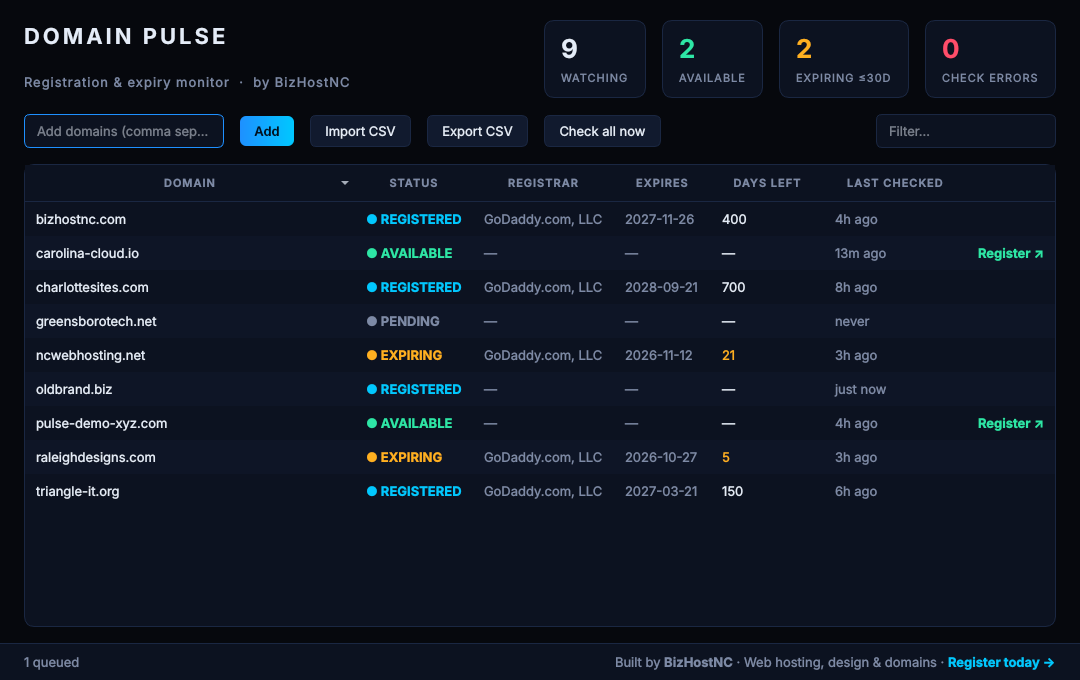
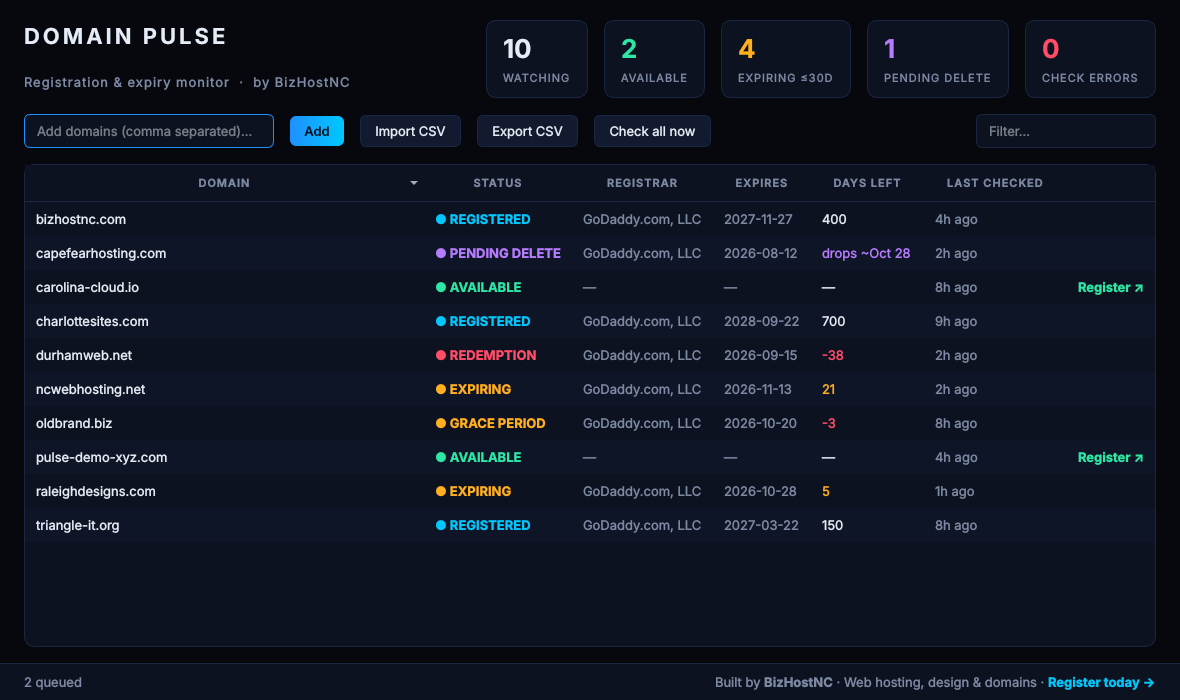
Track grace period, redemption and pending delete
Reads the registry status flags from RDAP to follow expired domains through
deletion, alerts at each stage, estimates the drop date for pending delete
domains and checks them every 2 hours. Adds lifecycle and drop date columns
to the CSV export and migrates existing databases.

diff --git a/domain_pulse/monitor.py b/domain_pulse/monitor.py
@@ -17,9 +17,30 @@ from .store import Domain, utcnow
 TICK_SECONDS = 4              # minimum gap between any two lookups
 DEFAULT_INTERVAL = timedelta(hours=24)
 NEAR_EXPIRY_INTERVAL = timedelta(hours=6)
+PENDING_DELETE_INTERVAL = timedelta(hours=2)
+PENDING_DELETE_DAYS = 5         # typical gap between pending delete and the domain dropping
 ERROR_RETRY = timedelta(hours=1)
 NEAR_EXPIRY_DAYS = 30
 EXPIRY_THRESHOLDS = (30, 7, 1)  # days before expiry that trigger an alert
+
+
+# Lifecycle phases after expiry, from the registry's status flags.
+GRACE = "grace"
+REDEMPTION = "redemption"
+PENDING_DELETE = "pending_delete"
+PHASE_LABELS = {GRACE: "grace period", REDEMPTION: "redemption", PENDING_DELETE: "pending delete"}
+
+
+def lifecycle_phase(flags: list[str]) -> str:
+    # Some registries (e.g. Verisign) also set "pending delete" during redemption,
+    # so redemption wins when both are present.
+    if "redemption period" in flags or "pending restore" in flags:
+        return REDEMPTION
+    if "pending delete" in flags:
+        return PENDING_DELETE
+    if "auto renew period" in flags:
+        return GRACE
+    return ""
 
 
 @dataclass
@@ -33,6 +54,10 @@ class Alert:
 def next_interval(d: Domain, now: datetime) -> timedelta:
     if d.error:
         return ERROR_RETRY
+    if d.phase == PENDING_DELETE:
+        return PENDING_DELETE_INTERVAL
+    if d.phase:
+        return NEAR_EXPIRY_INTERVAL
     days = d.days_left(now)
     if d.status == REGISTERED and days is not None and days <= NEAR_EXPIRY_DAYS:
         return NEAR_EXPIRY_INTERVAL
@@ -61,16 +86,45 @@ def apply_result(d: Domain, result: LookupResult, now: datetime | None = None) -
                                     "Register it now before someone else does."))
                 d.alerted_available = True
             d.alerted_threshold = None
+            d.phase, d.drop_date, d.alerted_phase = "", None, ""
         else:
             d.alerted_available = False
             if old_expires and d.expires and d.expires > old_expires:
                 d.alerted_threshold = None  # renewed: start the countdown alerts over
-            alerts.extend(_expiry_alerts(d, now))
+            alerts.extend(_phase_alerts(d, result, now))
+            if not d.phase:
+                alerts.extend(_expiry_alerts(d, now))
 
     # Small jitter keeps checks spread out instead of bunching up after a bulk import.
     jitter = timedelta(minutes=random.uniform(0, 20)) if not d.error else timedelta()
     d.next_check = now + next_interval(d, now) + jitter
     return alerts
+
+
+def _phase_alerts(d: Domain, result: LookupResult, now: datetime) -> list[Alert]:
+    old_phase = d.phase
+    d.phase = lifecycle_phase(result.flags)
+    if d.phase == PENDING_DELETE:
+        if result.deletion:
+            d.drop_date = result.deletion
+        elif old_phase != PENDING_DELETE or not d.drop_date:
+            d.drop_date = now + timedelta(days=PENDING_DELETE_DAYS)
+    else:
+        d.drop_date = result.deletion if d.phase else None
+    if not d.phase:
+        d.alerted_phase = ""
+        return []
+    if d.alerted_phase == d.phase:
+        return []
+    d.alerted_phase = d.phase
+    if d.phase == PENDING_DELETE:
+        return [Alert(d.name, "pending_delete", f"{d.name} is pending delete",
+                      f"Expected to drop around {d.drop_date:%b %d, %Y}. Be ready to register it.")]
+    if d.phase == REDEMPTION:
+        return [Alert(d.name, "redemption", f"{d.name} is in redemption",
+                      "Expired and held by the registry. The owner can still restore it for a fee.")]
+    return [Alert(d.name, "grace", f"{d.name} is in its grace period",
+                  "Expired, but the owner can still renew it normally.")]
 
 
 def _expiry_alerts(d: Domain, now: datetime) -> list[Alert]:

diff --git a/tests/test_core.py b/tests/test_core.py
@@ -147,3 +147,72 @@ def test_error_keeps_status_and_retries_soon():
     monitor.apply_result(d, LookupResult("x.com", "unknown", error="timeout"), NOW)
     assert d.status == REGISTERED and d.error == "timeout"
     assert d.next_check - NOW == monitor.ERROR_RETRY
+
+
+def test_parse_status_flags_and_deletion_event():
+    data = {**RDAP_SAMPLE, "status": ["Pending Delete", "client hold"],
+            "events": RDAP_SAMPLE["events"] + [{"eventAction": "deletion", "eventDate": "2026-10-30T18:00:00Z"}]}
+    r = parse_domain("example.com", data)
+    assert r.flags == ["pending delete", "client hold"]
+    assert r.deletion == datetime(2026, 10, 30, 18, tzinfo=timezone.utc)
+
+
+def test_lifecycle_phase():
+    assert monitor.lifecycle_phase(["active"]) == ""
+    assert monitor.lifecycle_phase(["auto renew period"]) == monitor.GRACE
+    assert monitor.lifecycle_phase(["pending delete", "redemption period"]) == monitor.REDEMPTION
+    assert monitor.lifecycle_phase(["pending delete"]) == monitor.PENDING_DELETE
+
+
+def test_deletion_lifecycle_alerts_and_drop():
+    d = Domain("x.com")
+    expired = NOW - timedelta(days=40)
+    reg = lambda flags, deletion=None: LookupResult("x.com", REGISTERED, expires=expired, flags=flags, deletion=deletion)
+
+    alerts = monitor.apply_result(d, reg(["redemption period", "pending delete"]), NOW)
+    assert [a.kind for a in alerts] == ["redemption"]           # no "expired N days" alert on top
+    assert monitor.apply_result(d, reg(["redemption period"]), NOW) == []
+
+    alerts = monitor.apply_result(d, reg(["pending delete"]), NOW)
+    assert [a.kind for a in alerts] == ["pending_delete"]
+    assert d.drop_date == NOW + timedelta(days=monitor.PENDING_DELETE_DAYS)
+    assert d.next_check - NOW < timedelta(hours=3)               # watched closely
+
+    later = NOW + timedelta(hours=2)
+    assert monitor.apply_result(d, reg(["pending delete"]), later) == []
+    assert d.drop_date == NOW + timedelta(days=monitor.PENDING_DELETE_DAYS)  # estimate kept
+
+    published = NOW + timedelta(days=3)
+    monitor.apply_result(d, reg(["pending delete"], deletion=published), later)
+    assert d.drop_date == published                               # registry date wins
+
+    alerts = monitor.apply_result(d, LookupResult("x.com", AVAILABLE), later)
+    assert [a.kind for a in alerts] == ["available"]
+    assert d.phase == "" and d.drop_date is None
+
+
+def test_store_migrates_old_database(tmp_path):
+    import sqlite3
+    path = tmp_path / "old.sqlite"
+    conn = sqlite3.connect(path)
+    conn.execute("""CREATE TABLE domains (name TEXT PRIMARY KEY, status TEXT NOT NULL DEFAULT 'pending',
+        registrar TEXT NOT NULL DEFAULT '', expires TEXT, last_checked TEXT, next_check TEXT NOT NULL,
+        error TEXT NOT NULL DEFAULT '', alerted_available INTEGER NOT NULL DEFAULT 0,
+        alerted_threshold INTEGER, added TEXT NOT NULL)""")
+    conn.execute("INSERT INTO domains (name, next_check, added) VALUES ('a.com', '2026-01-01', '2026-01-01')")
+    conn.commit()
+    conn.close()
+    s = Store(path)
+    d = s.get("a.com")
+    assert d.phase == ""
+    d.phase, d.drop_date = monitor.PENDING_DELETE, NOW
+    s.save(d)
+    assert Store(path).get("a.com").drop_date == NOW
+
+
+def test_csv_export_lifecycle(tmp_path):
+    out = tmp_path / "out.csv"
+    csv_io.write_domains(out, [Domain("x.com", status=REGISTERED, phase=monitor.PENDING_DELETE, drop_date=NOW)])
+    header, row = out.read_text().splitlines()
+    assert header.split(",")[2] == "lifecycle"
+    assert "pending delete" in row and "2026-10-22" in row

diff --git a/domain_pulse/store.py b/domain_pulse/store.py
@@ -18,9 +18,19 @@ CREATE TABLE IF NOT EXISTS domains (
     error TEXT NOT NULL DEFAULT '',
     alerted_available INTEGER NOT NULL DEFAULT 0,
     alerted_threshold INTEGER,
-    added TEXT NOT NULL
+    added TEXT NOT NULL,
+    phase TEXT NOT NULL DEFAULT '',
+    drop_date TEXT,
+    alerted_phase TEXT NOT NULL DEFAULT ''
 );
 """
+
+# Columns added after the first alpha; older databases get them on startup.
+MIGRATIONS = {
+    "phase": "ALTER TABLE domains ADD COLUMN phase TEXT NOT NULL DEFAULT ''",
+    "drop_date": "ALTER TABLE domains ADD COLUMN drop_date TEXT",
+    "alerted_phase": "ALTER TABLE domains ADD COLUMN alerted_phase TEXT NOT NULL DEFAULT ''",
+}
 
 
 def utcnow() -> datetime:
@@ -42,6 +52,9 @@ class Domain:
     error: str = ""
     alerted_available: bool = False
     alerted_threshold: int | None = None
+    phase: str = ""  # "", "grace", "redemption" or "pending_delete"
+    drop_date: datetime | None = None
+    alerted_phase: str = ""
 
     def days_left(self, now: datetime | None = None) -> int | None:
         if not self.expires:
@@ -54,6 +67,11 @@ class Store:
         self.conn = sqlite3.connect(str(path), check_same_thread=False)
         self.conn.row_factory = sqlite3.Row
         self.conn.executescript(SCHEMA)
+        existing = {r["name"] for r in self.conn.execute("PRAGMA table_info(domains)")}
+        for column, sql in MIGRATIONS.items():
+            if column not in existing:
+                self.conn.execute(sql)
+        self.conn.commit()
 
     def add(self, names: list[str]) -> int:
         now = utcnow().isoformat()
@@ -98,13 +116,15 @@ class Store:
     def save(self, d: Domain) -> None:
         self.conn.execute(
             """UPDATE domains SET status=?, registrar=?, expires=?, last_checked=?, next_check=?,
-               error=?, alerted_available=?, alerted_threshold=? WHERE name=?""",
+               error=?, alerted_available=?, alerted_threshold=?, phase=?, drop_date=?, alerted_phase=?
+               WHERE name=?""",
             (
                 d.status, d.registrar,
                 d.expires.isoformat() if d.expires else None,
                 d.last_checked.isoformat() if d.last_checked else None,
                 (d.next_check or utcnow()).isoformat(),
-                d.error, int(d.alerted_available), d.alerted_threshold, d.name,
+                d.error, int(d.alerted_available), d.alerted_threshold,
+                d.phase, d.drop_date.isoformat() if d.drop_date else None, d.alerted_phase, d.name,
             ),
         )
         self.conn.commit()
@@ -117,4 +137,5 @@ class Store:
             next_check=_dt(r["next_check"]), error=r["error"],
             alerted_available=bool(r["alerted_available"]),
             alerted_threshold=r["alerted_threshold"],
+            phase=r["phase"], drop_date=_dt(r["drop_date"]), alerted_phase=r["alerted_phase"],
         )

diff --git a/domain_pulse/app.py b/domain_pulse/app.py
@@ -22,6 +22,8 @@ COL_ACTION = 6
 
 
 def display_status(d: Domain, now: datetime) -> str:
+    if d.status == REGISTERED and d.phase:
+        return monitor.PHASE_LABELS[d.phase]
     if d.status == REGISTERED:
         days = d.days_left(now)
         if days is not None and days < 0:
@@ -84,6 +86,8 @@ class DomainModel(QAbstractTableModel):
             if col == 3:
                 return d.expires.strftime("%Y-%m-%d") if d.expires else "—"
             if col == 4:
+                if d.phase == monitor.PENDING_DELETE and d.drop_date:
+                    return f"drops ~{d.drop_date:%b %d}"
                 return "—" if days is None else str(days)
             if col == 5:
                 return ago(d.last_checked, now)
@@ -96,6 +100,8 @@ class DomainModel(QAbstractTableModel):
         if role == Qt.ForegroundRole:
             if col == 1:
                 return QColor(theme.STATUS_COLORS.get(status, theme.MUTED))
+            if col == 4 and d.phase == monitor.PENDING_DELETE:
+                return QColor(theme.DROP)
             if col == 4 and days is not None and days <= monitor.NEAR_EXPIRY_DAYS:
                 return QColor(theme.WARN if days >= 0 else theme.BAD)
             if col == COL_ACTION:
@@ -107,6 +113,8 @@ class DomainModel(QAbstractTableModel):
             f.setBold(True)
             return f
         if role == Qt.ToolTipRole:
+            if d.phase == monitor.PENDING_DELETE and d.drop_date:
+                return f"Pending delete. Expected to drop around {d.drop_date:%b %d, %Y}."
             if d.error:
                 return f"Last check failed: {d.error}"
             if col == COL_ACTION and d.status == AVAILABLE:
@@ -194,6 +202,7 @@ class MainWindow(QMainWindow):
             "total": StatCard("Watching", theme.TEXT),
             "available": StatCard("Available", theme.GOOD),
             "expiring": StatCard("Expiring ≤30d", theme.WARN),
+            "dropping": StatCard("Pending delete", theme.DROP),
             "error": StatCard("Check errors", theme.BAD),
         }
         for c in self.cards.values():
@@ -358,7 +367,9 @@ class MainWindow(QMainWindow):
         statuses = [display_status(d, now) for d in rows]
         self.cards["total"].value.setText(str(len(rows)))
         self.cards["available"].value.setText(str(statuses.count("available")))
-        self.cards["expiring"].value.setText(str(statuses.count("expiring") + statuses.count("expired")))
+        expiring = ("expiring", "expired", "grace period", "redemption")
+        self.cards["expiring"].value.setText(str(sum(statuses.count(s) for s in expiring)))
+        self.cards["dropping"].value.setText(str(statuses.count("pending delete")))
         self.cards["error"].value.setText(str(sum(1 for d in rows if d.error)))
         self.update_status()
 

diff --git a/domain_pulse/rdap.py b/domain_pulse/rdap.py
@@ -8,7 +8,7 @@ from __future__ import annotations
 
 import json
 import time
-from dataclasses import dataclass
+from dataclasses import dataclass, field
 from datetime import datetime
 from pathlib import Path
 
@@ -31,6 +31,8 @@ class LookupResult:
     registrar: str = ""
     expires: datetime | None = None
     error: str = ""
+    flags: list[str] = field(default_factory=list)  # registry status flags, e.g. "redemption period"
+    deletion: datetime | None = None  # scheduled deletion date, when the registry publishes one
 
 
 class RdapClient:
@@ -103,11 +105,18 @@ class RdapClient:
 
 
 def parse_domain(domain: str, data: dict) -> LookupResult:
-    expires = None
+    expires = deletion = None
     for event in data.get("events", []):
-        if event.get("eventAction") == "expiration" and event.get("eventDate"):
-            expires = parse_date(event["eventDate"])
-    return LookupResult(domain, REGISTERED, registrar=_registrar(data), expires=expires)
+        action, date = event.get("eventAction"), event.get("eventDate")
+        if not date:
+            continue
+        if action == "expiration":
+            expires = parse_date(date)
+        elif action == "deletion":
+            deletion = parse_date(date)
+    flags = [str(f).strip().lower() for f in data.get("status", [])]
+    return LookupResult(domain, REGISTERED, registrar=_registrar(data), expires=expires,
+                        flags=flags, deletion=deletion)
 
 
 def _registrar(data: dict) -> str:

diff --git a/domain_pulse/csv_io.py b/domain_pulse/csv_io.py
@@ -5,10 +5,12 @@ from __future__ import annotations
 import csv
 from pathlib import Path
 
+from .monitor import PHASE_LABELS
 from .rdap import is_valid, normalize
 from .store import Domain, utcnow
 
-EXPORT_FIELDS = ["domain", "status", "registrar", "expires", "days_left", "last_checked", "error"]
+EXPORT_FIELDS = ["domain", "status", "lifecycle", "registrar", "expires", "days_left", "drop_date",
+                 "last_checked", "error"]
 DOMAIN_HEADERS = {"domain", "domains", "domain name", "name", "url", "website"}
 
 
@@ -58,9 +60,10 @@ def write_domains(path: Path | str, domains: list[Domain]) -> None:
         for d in domains:
             days = d.days_left(now)
             w.writerow([
-                d.name, d.status, d.registrar,
+                d.name, d.status, PHASE_LABELS.get(d.phase, ""), d.registrar,
                 d.expires.date().isoformat() if d.expires else "",
                 "" if days is None else days,
+                d.drop_date.date().isoformat() if d.drop_date else "",
                 d.last_checked.strftime("%Y-%m-%d %H:%M UTC") if d.last_checked else "",
                 d.error,
             ])

diff --git a/domain_pulse/theme.py b/domain_pulse/theme.py
@@ -14,9 +14,11 @@ ACCENT_2 = "#00c8ff"
 GOOD = "#2ee6a6"
 WARN = "#ffb020"
 BAD = "#ff4d6a"
+DROP = "#b67cff"
 
 STATUS_COLORS = {"available": GOOD, "expiring": WARN, "expired": BAD, "error": BAD,
-                 "registered": ACCENT_2, "pending": MUTED, "unknown": MUTED}
+                 "registered": ACCENT_2, "pending": MUTED, "unknown": MUTED,
+                 "grace period": WARN, "redemption": BAD, "pending delete": DROP}
 
 STYLESHEET = f"""
 * {{ font-family: "Segoe UI", "Inter", "Noto Sans", sans-serif; font-size: 13px; color: {TEXT}; }}

diff --git a/domain_pulse/__init__.py b/domain_pulse/__init__.py
@@ -1,6 +1,6 @@
 """Domain Pulse: tray app that watches domain registration and expiry."""
 
-__version__ = "0.1.1-alpha"
+__version__ = "0.1.2-alpha"
 APP_NAME = "Domain Pulse"
 
 BRAND_NAME = "BizHostNC"

diff --git a/README.md b/README.md
@@ -8,8 +8,9 @@ A small tray app that watches a list of domains and tells you when one becomes *
 
 - Lives in the system tray on Windows and Linux. Closing the window keeps it running; quit from the tray menu.
 - Import domains from a CSV (a `domain` column, or just the first column) or type them in.
-- Export a CSV with status, registrar, expiry date, days left and last checked time.
+- Export a CSV with status, lifecycle stage, registrar, expiry date, days left, expected drop date and last checked time.
 - Desktop notifications when a domain becomes available, and at 30, 7 and 1 days before expiry. Each alert fires once, and the countdown resets when a domain is renewed.
+- Follows expired domains through the registry's deletion stages: **grace period**, **redemption** and **pending delete**, with an alert at each stage and an expected drop date once a domain is pending delete.
 - Color-coded status table with filter and sorting, plus a one-click "Register" link for available domains.
 
 ## How checking works
@@ -20,6 +21,8 @@ Lookups use [RDAP](https://www.icann.org/rdap), the structured successor to WHOI
 | --- | --- |
 | Registered, more than 30 days left | Every 24 hours |
 | Registered, 30 days or less | Every 6 hours |
+| Expired: grace period or redemption | Every 6 hours |
+| Pending delete | Every 2 hours |
 | Available | Every 24 hours |
 | Last check failed | Retried after 1 hour |
 
